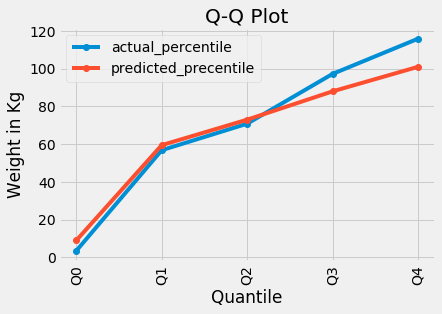
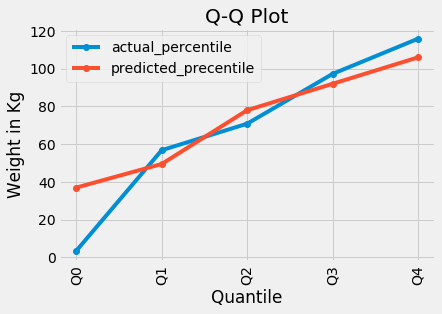
update booster=gblinear and return coeff

Changed region(s): [[0.2059, 0.172, 0.9706, 0.7166], [0.1471, 0.5732, 0.2353, 0.6306], [0.1471, 0.7166, 0.2059, 0.7739]]

diff --git a/json_fetch_full.py b/json_fetch_full.py
@@ -27,7 +27,7 @@ CORS(app)
 @app.route('/')
 def output():
 	# serve index template
-	return render_template('index.html', name='pyml')
+	return render_template('predict.html', name='pyml')
 
 @app.route('/receiver', methods = ['POST'])
 def worker():
@@ -62,9 +62,9 @@ def worker():
    	    prod_ds[col] = prod_ds[col].astype(float)
 	y_pred = model.predict(prod_ds)
 	print(y_pred[0])
-	print(str(round(y_pred[0],2)), str(zip(prod_ds.columns, model.feature_importances_)))
-	return (str(round(y_pred[0],2)) + ' Feature Importances: ' + \
-			str('\n' * 2) + str(list(zip(prod_ds.columns, model.feature_importances_))))
+	print(str(round(y_pred[0],2)), str(zip(prod_ds.columns, model.coef_)))
+	return (str(round(y_pred[0],2)) + ' Feature Coefficients: ' + \
+			str('\n' * 2) + str(list(zip(prod_ds.columns, model.coef_))))
 
 
 
@@ -78,8 +78,9 @@ if __name__ == '__main__':
 	select_col = obs_transform.notnull().sum().sort_values(ascending=False)[0:11].index
 
 	select_obs = obs_transform[select_col]
-	model = XGBRegressor(booster='gbtree',objective='reg:squarederror',learning_rate = 0.1, \
-						 max_depth = 2, min_child_weight = 1, n_estimators = 50)
+	model = XGBRegressor(booster='gblinear',objective='reg:squarederror', \
+                           learning_rate = 0.1, max_depth = 2, min_child_weight = 1,\
+                           n_estimators = 200, subsample = 0.1)
 	X = select_obs.drop(['Body Weight','Body Mass Index'], axis=1)
 	y = select_obs['Body Weight']
 	y.replace(np.NaN,y.mean(),inplace=True)
